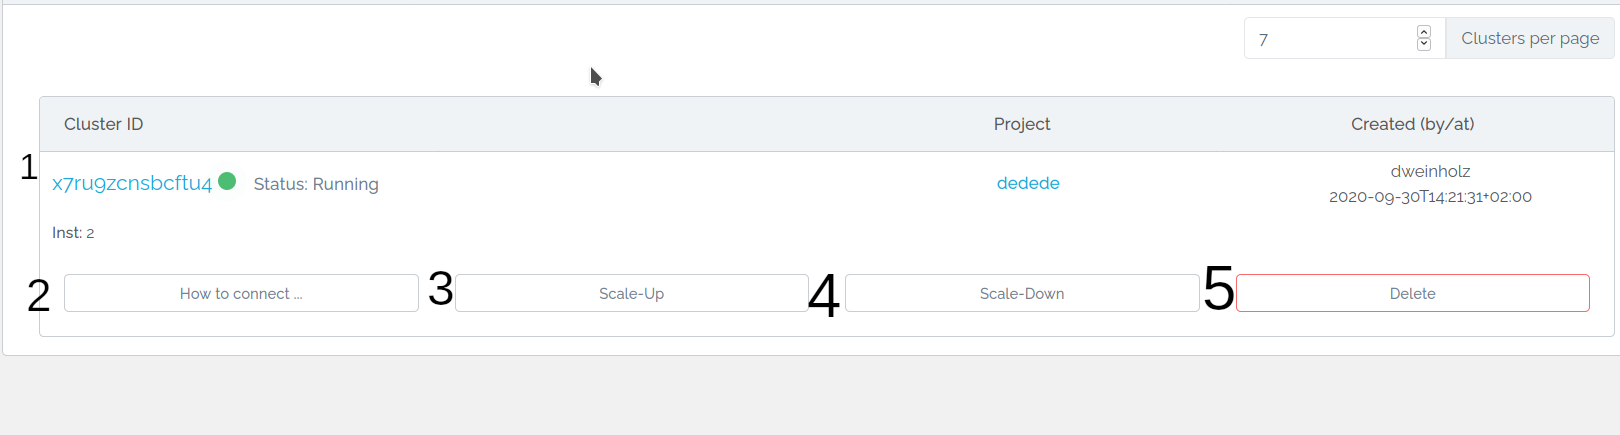
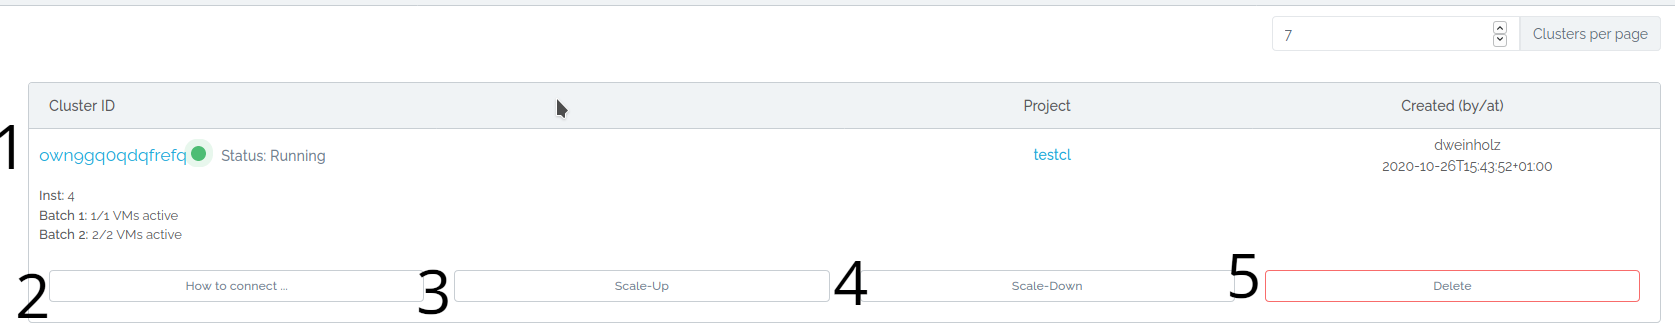
updated cluster wiki

diff --git a/wiki/simple_vm/cluster_overview.md b/wiki/simple_vm/cluster_overview.md
@@ -11,11 +11,11 @@ In the first row you will find the id of your cluster and its current status (cl
 Clicking this button will show you commands and information on how to connect to the master instance of your cluster.
 ### 3. Scale-Up
 It is possible to expand a cluster and add more workers by clicking on scale-up.
-This will open a modal where you have to specify the number of additional workers.
+This will open a modal where you have to specify which batch should be expanded.
 
 ![scale-up](./img/cluster_overview/scaling_up.png)
 
-Therefore it is calculated how many maximum workers are possible. Furthermore it is currently only possible to start workers with the same flavor and image as the previous workers.
+Therefore it is calculated how many maximum workers are possible in each batch.
 
 **This will only initiate the start of the workers.
 The cluster has to be configured correctly, so please wait until all new workers are active in the cluster detail overview until you configure the cluster!**.
@@ -29,42 +29,23 @@ Therefore  you have to do the following steps:
 
 
 ```BASH
-wget https://raw.githubusercontent.com/deNBI/user_scripts/master/bibigrid/v0/scaling_up_v0.py
+wget https://raw.githubusercontent.com/deNBI/user_scripts/master/bibigrid/v0/scaling_v0.1.0.py
 ```
 
 
-</li>
-<li>For each new worker you have to prepare a yml file with the following structure:
-
-```yaml
-ip: 192.168.1.117
-cores: 2
-hostname: bibigrid-worker-1-1-yif3uig7qvwlbmv
-memory: 2048
-epheremals: []
-```
-This example yaml file would be saved as:<br> **192.168.1.117.yml** <br>
-<br>
-**You can find this information for every worker in the cluster detail overview!<br>
-Navigate to the respective worker and on the right side click on "Scaling Info".**
-
-
-</li>
 <li>
-Now the downloaded script has to be executed, as parameter the private ip of each new worker has to be passed
+Now the downloaded script has to be executed:
 
 ```BASH
-python3 scaling_up_v0.py 192.168.1.117
+python3 scaling_up_v0.py 
 ```
-**_NOTE:_** Sometimes the ansible script can fail with the error message **Could not get lock /var/lib/dpkg/lock-frontend - open (11: Resource temporarily unavailable)** <br>
-Then you have to wait a few minutes and run the script again
 
 When the script has run, your cluster is properly configured again and the new workers can be used!
 </li>
 
 You can check with the command **sinfo** if the worker has been added correctly!
 
-**If the new worker is still missing you can try to restart slrum with the following command:**
+**If the new worker is still missing you can try to restart slurm with the following command:**
 ```BASH
 sudo /etc/init.d/slurmctld restart
 ```
@@ -79,7 +60,7 @@ If you want to use less resources with your cluster you can also scale down your
 
 ![scale-down](./img/cluster_overview/scaling_down.png)
 
-Once you have selected which workers to delete and confirmed, these machines are deleted.<br>
+Once you have selected which batches should be scaled down and confirmed, these machines are deleted.<br>
 **Your cluster must still be configured!**.
 
 Therefore  you have to do the following steps:
@@ -96,24 +77,23 @@ wget https://raw.githubusercontent.com/deNBI/user_scripts/master/bibigrid/v0/sca
 </li>
 
 <li>
-Now the downloaded script has to be executed, as parameter the private ip of each deleted worker has to be passed
+Now the downloaded script has to be executed:
 
 ```BASH
-python3 scaling_down_v0.py 192.168.1.54 192.168.1.62
+python3 scaling_down_v0.py 
 ```
 
 When the script has run, your cluster is properly configured again!
 
 
-
 </li>
 You can check with the command **sinfo** if the worker has been removed correctly!
 
-**If the  worker is still there you can try to restart slurm with the following command:**
+**If the  workers are still there you can try to restart slurm with the following command:**
 ```BASH
 sudo /etc/init.d/slurmctld restart
 ```
-**If the worker is still there after the command has been executed something went wrong and you should contact the support.**
+**If the workers are still there after the command has been executed something went wrong and you should contact the support.**
 </ol> 
 
 
